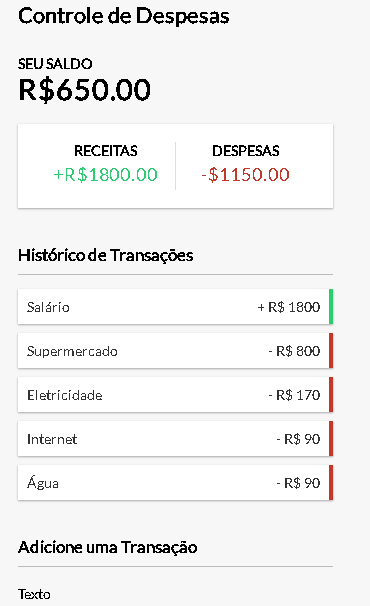
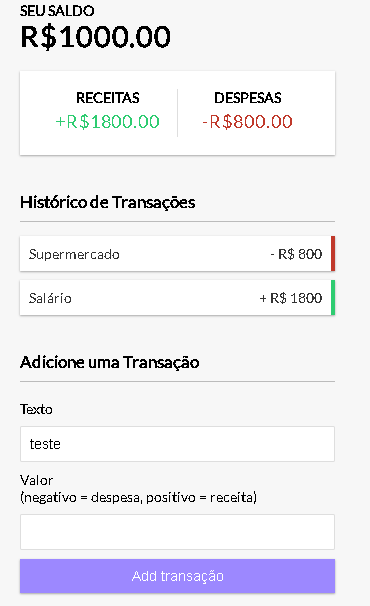
adicionado persistência a localStore

diff --git a/src/context/GlobalState.js b/src/context/GlobalState.js
@@ -3,14 +3,16 @@ import AppReducer from './AppReducer';
 
 //State inicial
 
+const localStorageTransactions = JSON.parse(localStorage.getItem('transactions'))
+//let transactions = localStorage.getItem('transactions') != null ? localStorageTransactions : []
+
 const initialState = {
-  transactions: [    
-    { id: 5, text: "Supermercado", amount: -800 },
-    { id: 4, text: "Eletricidade", amount: -170 },
-    { id: 3, text: "Internet", amount: -90 },
-    { id: 2, text: "Água", amount: -90 },
-    { id: 1, text: "Salário", amount: 1800 },
-  ],
+  transactions: localStorage.getItem('transactions') != null ? localStorageTransactions.transactions :
+  [
+    { id: 3, text: "Supermercado", amount: -800 },
+    { id: 2, text: "Eletricidade", amount: -170 },
+    { id: 1, text: "Salário", amount: 1800 }
+  ]
 };
 
 //Cria o contexto

diff --git a/src/context/AppReducer.js b/src/context/AppReducer.js
@@ -1,16 +1,19 @@
 export default (state, action) => {
   switch (action.type) {
-    case 'DELETE_TRANSACTION':
-        return{
-            ...state,
-            transactions: state.transactions.filter(transaction => transaction.id !== action.payload)
-        }
+    case "DELETE_TRANSACTION":
+      return {
+        ...state,
+        transactions: state.transactions.filter(
+          (transaction) => transaction.id !== action.payload
+        ),
+      };
 
-        case 'ADD_TRANSACTION':
-        return{
-            ...state,
-            transactions: [action.payload ,...state.transactions]
-        }
+    case "ADD_TRANSACTION":
+      return {
+        ...state,
+        transactions: [action.payload, ...state.transactions],
+      };
+
     default:
       return state;
   }

diff --git a/src/components/Transacoes.js b/src/components/Transacoes.js
@@ -5,6 +5,8 @@ import { Transacao } from "./Transacao";
 
 export const Transacoes = () => {
   const {transactions} = useContext(GlobalContext)
+  localStorage.setItem('transactions', JSON.stringify({transactions})) //armazena todas as transações na LocalStorage a cada mudança nas transações
+
 
   return (
     <>

diff --git a/src/components/AdicionarTransacao.js b/src/components/AdicionarTransacao.js
@@ -17,6 +17,7 @@ export const AdicionarTransacao = () => {
 
     addTransaction(newTransaction);
     
+    
   }
   
 
